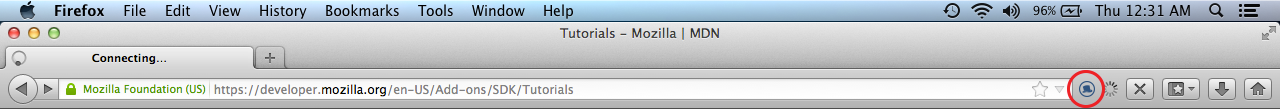
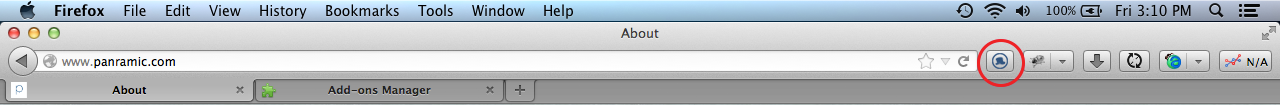
Rewritten Tapiture's Firefox Extension with XUL

diff --git a/readme.md b/readme.md
@@ -6,8 +6,8 @@ The goal of **Tapiture's Safari and Firefox Extensions** are to allow users to e
 
 Enough talk! Gimme the extension files!!!
 
-* **Safari** extension file is located at tapiture-safari.safariextension/tapiture-safari.safariextz
-* **FireFox** extension file is located at tapiture-firefox/tapiture-firefox.xpi
+* **Safari** extension file is located @ tapiture-safari.safariextension/tapiture-safari.safariextz
+* **FireFox** extension file is located @ tapiture-firefox-xul/bin/tapiture-firefox2.xpi
 
 ## How It Works
 
@@ -16,7 +16,7 @@ Enough talk! Gimme the extension files!!!
 
 ![Safari Toolbar](http://i.imgur.com/EZYn4sO.png)
 
-![FireFox Toolbar](http://i.imgur.com/TdNZb9p.png)
+![FireFox Toolbar](http://i.imgur.com/3ADK4DQ.png)
 
 2) A popup form will appear, enter the necesssary information and click "Tap".
 
@@ -25,7 +25,7 @@ Enough talk! Gimme the extension files!!!
 ### Menu
 1) Right click on an **image**, then click "Tap To Tapiture".
 
-![Menu](http://i.imgur.com/N2w0lZf.png)
+![Menu](http://i.imgur.com/Aap3exo.png)
 
 2) A popup form will appear, enter the necesssary information and click "Tap".
 
@@ -35,7 +35,7 @@ OR
 
 1) Right click **anywhere on the page**, then click "Tap To Tapiture".
 
-![Menu](http://i.imgur.com/N2w0lZf.png)
+![Menu](http://i.imgur.com/Aap3exo.png)
 
 2) An overlay will appear. Select the image you want to Tap.
 
